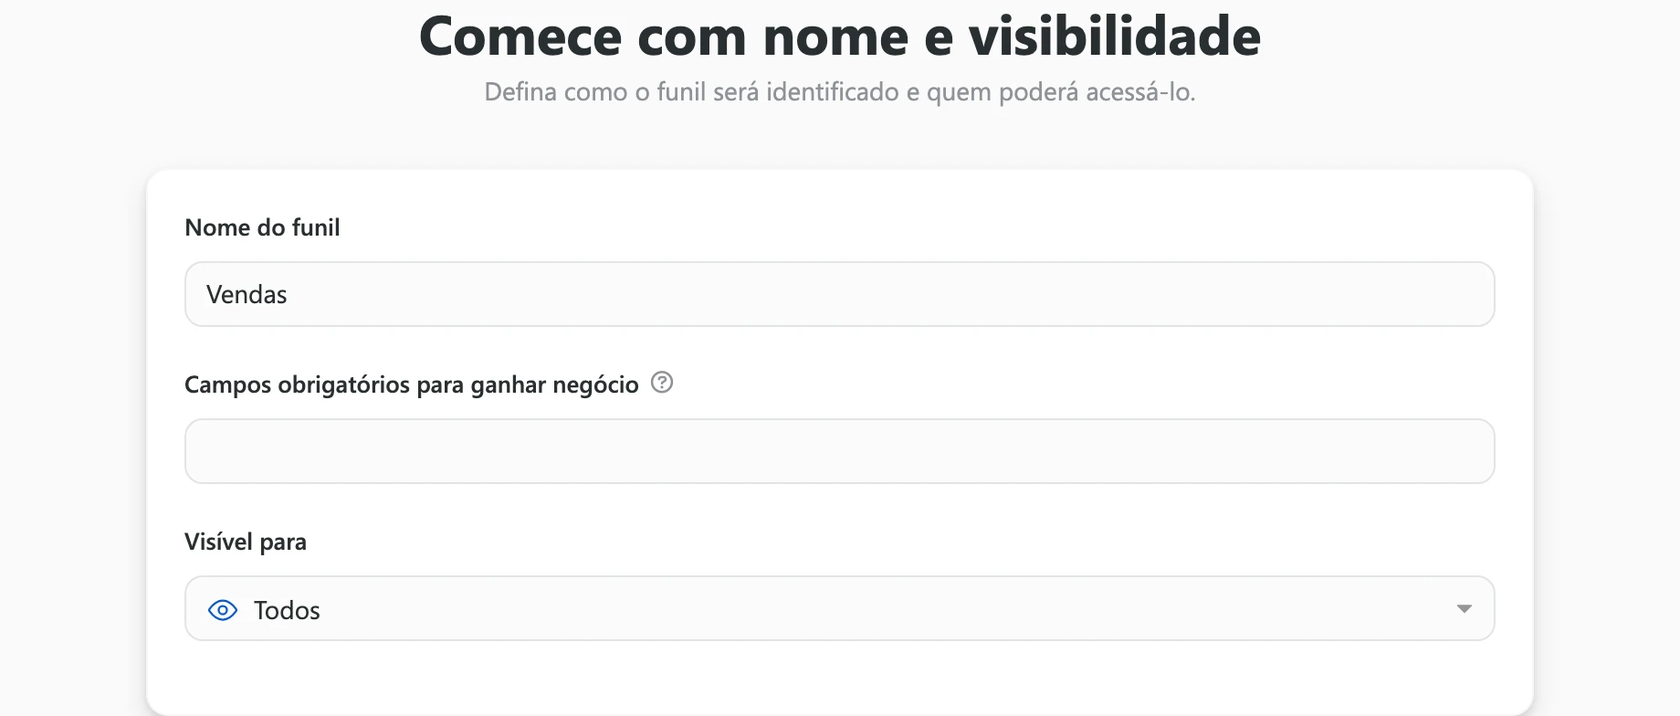
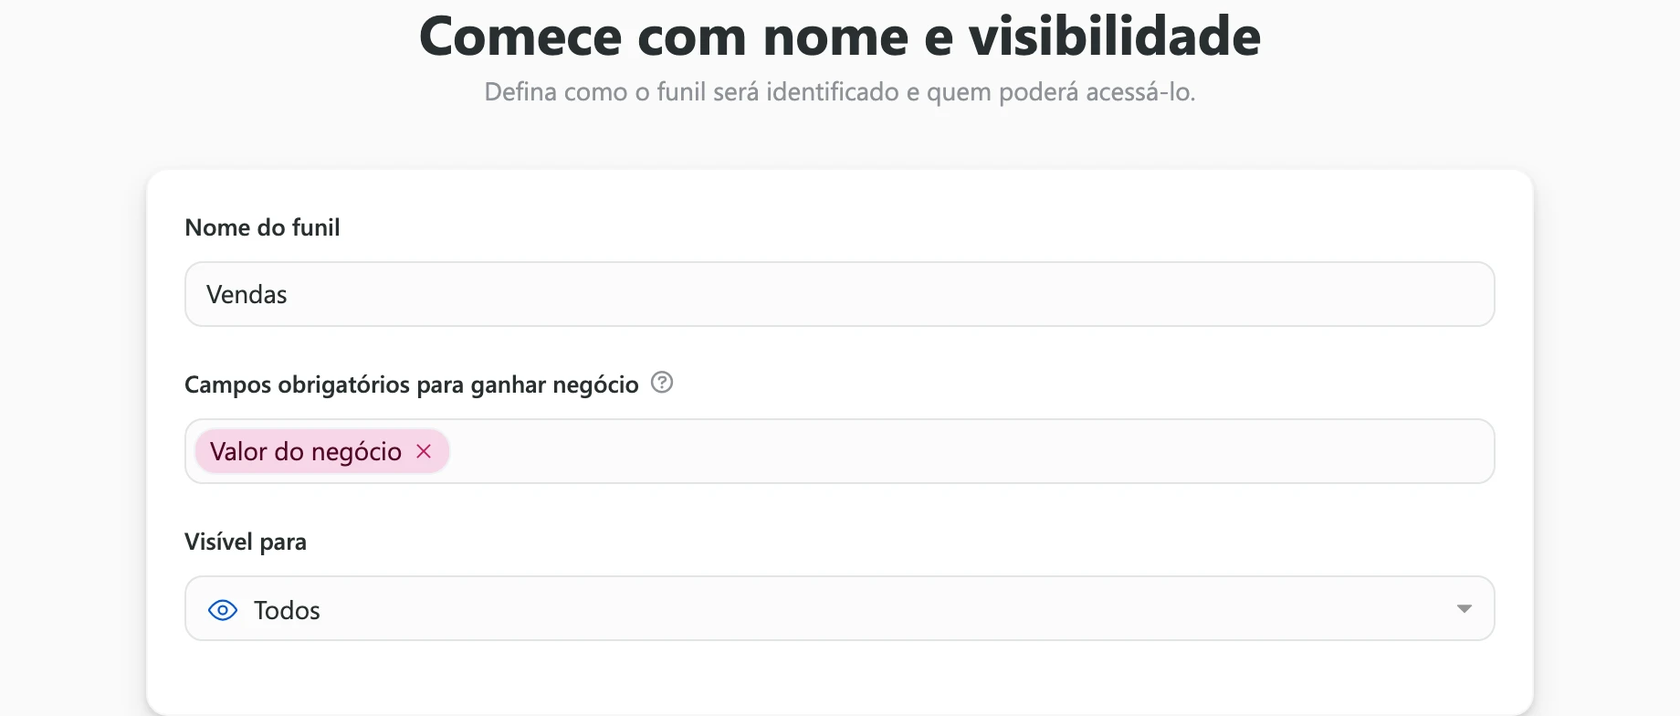
docs(ajuda): funis — correções da rodada 1 do conselho
- Permissões descritas sem recorte de caminho (exportar, reverter importação,
  voltar etapa, nota de ações em lote, painel da conversa)
- Precisão: excluir etapa/funil com Mover todos os negócios, importação
  (mensagem de mapeamento, Prazo × SLA, datas do Excel, histórico com 10),
  exclusão em lote, cadência ao voltar para a etapa, campos para ganhar ×
  campos da etapa, ordem do filtro Etapa, total do produto
- Página do funil enxuta (filtros, ordenação, menu e Analítico em uma linha
  cada; detalhes na irmã) e seções reordenadas
- Prints: nome e visibilidade na tela de criação, quadro mais largo e mais
  baixo, nova negociação mais baixa; manifesto e seed (--so validado, falha
  sem membro)
- Links do glossário e da referência de permissões; golden com caso de
  campo obrigatório para ganhar

Changed region(s): [[0.0929, 0.5816, 0.2788, 0.6735]]

diff --git a/scripts/screenshots/seed.ts b/scripts/screenshots/seed.ts
@@ -347,10 +347,12 @@ async function garantirCrm(api: Api, contatoIds: Record<string, string>) {
 
   // Responsáveis fictícios (membros convidados)
   const operadores = lista(await api.v0('GET', '/operators?limit=100'))
+  // Sem o membro, o negócio ficaria com o dono real da conta (nome e foto no print): falha em vez de seguir
   const opId = (nome: string) => {
     const membro = MEMBROS.find((m) => m.name === nome)
     const op = operadores.find((o) => o.email === membro?.email)
-    return op ? Number(op.operatorId || op.id) : undefined
+    if (!op) throw new Error(`membro "${nome}" não encontrado: rode antes a etapa "membros" (bun seed.ts --so membros,crm)`)
+    return Number(op.operatorId || op.id)
   }
 
   const vendas = lista(await api.v3('GET', '/pipelines')).find((p) => p.name === PIPELINE.name)
@@ -700,15 +702,8 @@ async function garantirClientes(api: Api, contatoIds: Record<string, string>) {
   log(`clientes: ${CAMPOS_CONTATO.length} campos de contato e ${ORGANIZACOES.length} organizações`)
 }
 
-const workspace = await garantirWorkspace()
-const api = client(workspace.token)
-await pularOnboarding(api)
-const canal = await garantirWidget(api)
-const tagIds = await garantirTags(api)
-await garantirConversas(api, canal, tagIds)
-const contatoIds = await garantirContatos(api)
-
 // As etapas abaixo são independentes: uma falha é registrada e o seed segue com as outras
+// (as funções só rodam no laço do fim, depois que `api`, `canal`, `tagIds` e `contatoIds` existem)
 const falhas: Record<string, string> = {}
 const etapas: [string, () => Promise<unknown>][] = [
   ['funil', () => garantirFunil(api, contatoIds, tagIds)],
@@ -722,9 +717,28 @@ const etapas: [string, () => Promise<unknown>][] = [
   ['clientes', () => garantirClientes(api, contatoIds)],
   ['crm', () => garantirCrm(api, contatoIds)],
 ]
-// `bun seed.ts --so crm,funil` roda só as etapas listadas (as do começo, idempotentes, rodam sempre)
+// `bun seed.ts --so funil,membros,crm` roda só as etapas listadas (as do começo, idempotentes, rodam sempre).
+// `crm` depende de `funil` (o funil "Vendas") e de `membros` (os responsáveis): rode as três juntas.
+const nomesEtapas = etapas.map(([nome]) => nome)
 const soArg = process.argv.indexOf('--so')
-const so = soArg > -1 ? process.argv[soArg + 1]?.split(',') : undefined
+let so: string[] | undefined
+if (soArg > -1) {
+  const valor = process.argv[soArg + 1]
+  if (!valor || valor.startsWith('--')) throw new Error(`--so precisa da lista de etapas, separadas por vírgula: ${nomesEtapas.join(', ')}`)
+  const pedidas = valor.split(',').map((nome) => nome.trim())
+  const desconhecidas = pedidas.filter((nome) => !nomesEtapas.includes(nome))
+  if (desconhecidas.length) throw new Error(`--so: etapa desconhecida (${desconhecidas.join(', ')}). Use: ${nomesEtapas.join(', ')}`)
+  so = pedidas
+}
+
+const workspace = await garantirWorkspace()
+const api = client(workspace.token)
+await pularOnboarding(api)
+const canal = await garantirWidget(api)
+const tagIds = await garantirTags(api)
+await garantirConversas(api, canal, tagIds)
+const contatoIds = await garantirContatos(api)
+
 for (const [nome, etapa] of etapas) {
   if (so && !so.includes(nome)) continue
   try {

diff --git a/llm/crm/importar-negociacoes.md b/llm/crm/importar-negociacoes.md
@@ -36,7 +36,7 @@ Detalhes de referência de [Importar negociações](/docs/crm/importar-negociaco
 
 ## Campos e cabeçalhos reconhecidos
 
-Embora **Nome da negociação** (ou **Título do ticket**) e **Nome do contato** exibam `*` na tela, é suficiente mapear **um dos dois** para avançar (`"Por favor, mapeie: Nome da negociação ou Nome do contato"`). Telefone e e-mail não são obrigatórios no mapeamento.
+Embora **Nome da negociação** (ou **Título do ticket**) e **Nome do contato** exibam `*` na tela, é suficiente mapear **um dos dois** para avançar (`"Por favor, mapeie: Nome do negócio ou Nome do contato"`; no **Funil Operacional**, `"Por favor, mapeie: Título do ticket ou Nome do contato"`). Telefone e e-mail não são obrigatórios no mapeamento.
 
 No mapeamento automático, a Kinbox compara o título da coluna (ignorando acentos, maiúsculas, espaços, `_` e `-`) com os termos abaixo (por igualdade ou parte do nome). Confira sempre todas as associações antes de avançar — especialmente **Nome do contato**, **Telefone do contato** e **E-mail do contato**. Campos personalizados de negociação casam por igualdade pelo nome ou pela chave do campo.
 
@@ -66,7 +66,7 @@ No mapeamento automático, a Kinbox compara o título da coluna (ignorando acent
 | **Etapa** | Nome exato da etapa do funil (insensível a maiúsculas, ignora espaços nas pontas) ou código da etapa. | Vazia ou não mapeada entra na primeira etapa do funil. Valor inexistente gera erro na linha: `Etapa não encontrada: "<valor>"`. |
 | **Status (open/won/lost)** | Escreva `aberto`, `ganho` ou `perdido` (também aceita os termos em inglês do rótulo; insensível a maiúsculas). No **Funil Operacional**, `ganho` marca como **Resolvido** e `perdido` como **Não resolvido**. | Vazia ou qualquer outro texto (como `resolvido` ou `vendido`) entra como **Aberto**, sem aviso. Negociações importadas como ganhas ou perdidas ficam sem motivo. |
 | **Valor** *(só comercial)* | No CSV, apenas números com ponto para centavos (ex.: `1500.50`), sem `R$` nem ponto de milhar. No `.xlsx`, célula numérica. | No **Funil Operacional**, o valor é sempre `0`. |
-| **Data de fechamento** / **Prazo** | Previsão de fechamento (ou SLA no operacional). Use `DD/MM/AAAA` com dois dígitos para dia e mês (datas com um dígito, como `1/2/2026`, podem ser lidas como mês/dia). | Data inválida faz a linha dar erro. |
+| **Data de fechamento** / **Prazo** | Previsão de fechamento (no **Funil Operacional**, **Prazo** também grava a previsão de fechamento, não o prazo de SLA; o SLA não é importado). No CSV, use `DD/MM/AAAA` com dois dígitos para dia e mês (datas com um dígito, como `1/2/2026`, podem ser lidas como mês/dia). No `.xlsx`, células no formato de data são convertidas automaticamente. | Data inválida faz a linha dar erro. |
 | **Data de ganho/perda** / **Data de conclusão/não resolução** | Gravada apenas quando o status da linha é ganho ou perdido (use `DD/MM/AAAA`). | Ignorada quando o status é aberto. Se vazia com status ganho ou perdido, grava a data da importação. |
 | **Tags (separadas por vírgula)** | Valores separados por vírgula, aplicados à negociação (não ao contato). **Mapeamento de Tags** associa automaticamente por nome (sem acento/maiúsculas); **Criar automaticamente tags não mapeadas** vem marcada por padrão e reaproveita tag existente de mesmo nome. | Sem ação escolhida e com a criação automática desmarcada, a tag é ignorada. |
 | **Responsável** e **Grupo** | Se **Responsável** ficar vazio, a negociação fica atribuída a quem fez a importação (para distribuir depois, use **Atribuir todos os negócios para um membro** em [Ações em lote no funil](/docs/crm/acoes-em-lote)). | Se **Grupo** ficar vazio e o funil tiver a regra **Ao criar negócio também mover para algum grupo do responsável.**, a negociação recebe um grupo do responsável. |
@@ -84,14 +84,13 @@ No mapeamento automático, a Kinbox compara o título da coluna (ignorando acent
 
 - **Início e acompanhamento:** inicia com `"Importação iniciada!"` (falha ao iniciar: `"Erro ao iniciar importação"`). A janela atualiza a cada 2 segundos e não fecha por clique fora; sair da página não interrompe a importação, que segue em andamento e aparece no **Histórico**. Se outras importações estiverem em andamento, a nova pode aguardar com status **Pendente**.
 - **Cancelar Importação:** interrompe sem confirmação entre lotes de 10 linhas (`"Importação cancelada"` / `"Erro ao cancelar importação"`). As negociações já criadas permanecem no funil. Importações já concluídas não podem ser canceladas.
-- **Status no Histórico de Importações:** **Concluído**, **Processando**, **Pendente**, **Falhou**, **Cancelado** e **Revertido**. Colunas: **ID** (8 últimos caracteres), **Arquivo**, **Status**, **Data**, **Total**, **Criados**, **Erros**.
+- **Histórico de Importações:** mostra as **10** importações mais recentes. Status: **Concluído**, **Processando**, **Pendente**, **Falhou**, **Cancelado** e **Revertido**. Colunas: **ID** (8 últimos caracteres), **Arquivo**, **Status**, **Data**, **Total**, **Criados**, **Erros**.
 - **Detalhes da Importação:** aba **Resumo** (datas, estatísticas, **Mapeamento** e aviso caso a opção de ignorar contato com negociação estivesse ativa) e aba **Erros** (guarda os **100 últimos** erros, enquanto o contador **Erros** conta todos; a coluna **Linha** conta o cabeçalho como linha 1 e desconsidera linhas vazias).
 - **Erros por linha:** quando uma linha falha, ela não é criada e as demais continuam. Mensagens: `Etapa não encontrada: "<valor>"` e `"Você já tem um máximo de {{max}} negociações abertas com esse contato."`.
 
 ## Reverter importação
 
 - **Condições:** disponível em **Histórico** → clique na importação → **Reverter importação** (ou **Ver detalhes** no cartão de resultado ao criar um funil) apenas para importações com status **Concluído** e **Criados com sucesso** maior que zero. Não aparece para importações **Cancelado**, **Falhou**, **Processando** ou **Revertido**. Não há limite de prazo.
-- **Quem pode:** exige a permissão **Gerenciar negociações** ou ser o proprietário.
 - **Confirmação e mensagens:** `"Deseja reverter esta importação e excluir os itens criados por ela ({{count}} negociações)? Esta ação não pode ser desfeita."` → **Reverter**. Sucesso: `"Importação revertida e itens criados excluídos"`; erro: `"Erro ao reverter importação"`. O status no histórico muda para **Revertido**.
-- **O que é excluído:** todas as negociações criadas por aquela importação, inclusive as que já foram editadas, movidas de etapa ou de funil, ganhas ou perdidas. Antes de confirmar, use **Ver … negociações** no mesmo painel para conferir a lista.
-- **O que não é desfeito:** contatos criados pela importação, dados preenchidos em contatos existentes e tags criadas permanecem no workspace. A reversão em si não pode ser desfeita.
+- **O que é excluído:** todas as negociações criadas por aquela importação, inclusive as que já foram editadas, movidas de etapa, ganhas ou perdidas. Antes de confirmar, use **Ver … negociações** no mesmo painel para conferir a lista.
+- **O que não é desfeito:** contatos criados e tags criadas pela importação não são apagados. A reversão em si não pode ser desfeita.

diff --git a/llm/faq/funil-reverter-importacao.md b/llm/faq/funil-reverter-importacao.md
@@ -1,6 +1,6 @@
 ---
 title: Como desfaço uma importação de negociações?
-description: Abra o Histórico na tela de importação de negociações (no computador e no layout atual) e clique em Reverter importação em uma importação concluída; exige Gerenciar negociações e não apaga contatos nem tags.
+description: Abra o Histórico na tela de importação de negociações (no computador e no layout atual) e clique em Reverter importação em uma importação concluída; não apaga contatos nem tags.
 keywords: [desfazer importação, reverter importação, apagar negociações importadas, importei errado, cancelar importação de funil, excluir importação, histórico de importações]
 publico: llm
 tipo: faq
@@ -23,13 +23,13 @@ Como desfaço uma importação de negociações?
 
 ## Resposta
 
-Vá em **Funis**, abra um funil (no computador e no layout atual), clique em **⋯** → **Importar** → **Histórico**, clique na importação desejada e selecione **Reverter importação** → **Reverter** — essa opção existe apenas para importações com status **Concluído** e pelo menos uma negociação criada, e exige a permissão **Gerenciar negociações** ou ser o proprietário do workspace (veja [Importar negociações](/docs/crm/importar-negociacoes)).
+Vá em **Funis**, abra um funil (no computador e no layout atual), clique em **⋯** → **Importar** → **Histórico**, clique na importação desejada e selecione **Reverter importação** → **Reverter** — essa opção existe apenas para importações com status **Concluído** e pelo menos uma negociação criada (veja [Importar negociações](/docs/crm/importar-negociacoes)).
 
 O que você precisa saber antes de reverter:
 
 - **Onde encontrar:** no **Histórico** da tela de importação; se você importou ao criar um funil novo, **Ver detalhes** no cartão de resultado abre a mesma tela. Não há limite de prazo.
-- **O que é excluído:** a Kinbox exclui definitivamente todas as negociações criadas por aquela importação — inclusive as que já foram editadas, movidas de etapa ou de funil, ganhas ou perdidas. Antes de confirmar (`"Deseja reverter esta importação e excluir os itens criados por ela ({{count}} negociações)? Esta ação não pode ser desfeita."`), use **Ver … negociações** no mesmo painel para conferir a lista. Depois da reversão, o status muda para **Revertido** e a ação não pode ser desfeita.
-- **O que não é desfeito:** contatos criados pela importação, dados preenchidos em contatos existentes e tags criadas permanecem no workspace e devem ser removidos manualmente se necessário.
+- **O que é excluído:** a Kinbox exclui definitivamente todas as negociações criadas por aquela importação — inclusive as que já foram editadas, movidas de etapa, ganhas ou perdidas. Antes de confirmar (`"Deseja reverter esta importação e excluir os itens criados por ela ({{count}} negociações)? Esta ação não pode ser desfeita."`), use **Ver … negociações** no mesmo painel para conferir a lista. Depois da reversão, o status muda para **Revertido** e a ação não pode ser desfeita.
+- **O que não é desfeito:** contatos criados e tags criadas pela importação não são apagados; remova-os manualmente se necessário.
 - **Importação em andamento, cancelada ou que falhou:** durante o processamento, você pode clicar em **Cancelar Importação** (interrompe no próximo lote, mas mantém as negociações já criadas). Importações com status **Cancelado** ou **Falhou** não exibem **Reverter importação** — para remover os itens já criados, exclua as negociações individualmente ou use **Excluir negociações** em [Ações em lote no funil](/docs/crm/acoes-em-lote), filtrando o funil com cuidado antes, pois a ação em lote alcança todas as negociações filtradas e a exclusão é definitiva.
 
 ## Variações

diff --git a/llm/faq/funil-negociacao-nao-muda-de-etapa.md b/llm/faq/funil-negociacao-nao-muda-de-etapa.md
@@ -1,6 +1,6 @@
 ---
 title: Por que não consigo mudar a negociação de etapa?
-description: Ao mover uma negociação pelo quadro ou pela tela da negociação, a Kinbox bloqueia a mudança se o papel tiver Não pode voltar para etapa anterior, se houver tarefa obrigatória pendente ou se faltar campo obrigatório da etapa atual.
+description: A Kinbox bloqueia a mudança de etapa se o papel tiver Não pode voltar para etapa anterior e a etapa for anterior, se houver tarefa obrigatória pendente ou se faltar campo obrigatório da etapa atual.
 keywords: [não consigo mover negociação, negociação travada na etapa, voltar etapa bloqueado, tarefas obrigatórias pendentes, preencha todos os campos obrigatórios, erro ao arrastar cartão no funil, mudar estágio bloqueado]
 publico: llm
 tipo: faq
@@ -35,11 +35,11 @@ Por que não consigo mudar a negociação de etapa?
 
 ## Resposta
 
-Ao mover uma negociação pelo quadro ou pela tela da negociação (barra de etapas ou **Editar etapa e funil**), a Kinbox verifica três bloqueios nesta ordem: a restrição de voltar etapa do seu papel, tarefas obrigatórias pendentes na negociação e campos obrigatórios da etapa **atual** (veja [Trabalhar com negociações no funil](/docs/crm/gerenciando-funil-de-vendas) e [Motivos de perda, campos obrigatórios e regras do funil](/docs/crm/motivos-de-perda-e-regras)).
+Ao mudar uma negociação de etapa, a Kinbox verifica três bloqueios nesta ordem: a restrição de voltar etapa do seu papel, tarefas obrigatórias pendentes na negociação e campos obrigatórios da etapa **atual** (veja [Trabalhar com negociações no funil](/docs/crm/gerenciando-funil-de-vendas) e [Motivos de perda, campos obrigatórios e regras do funil](/docs/crm/motivos-de-perda-e-regras)).
 
 Confira qual mensagem aparece e como resolver:
 
-1. **Restrição de voltar etapa (`"Você não tem permissão para retornar a uma etapa anterior. Chame seu gestor para essa ação."`):** seu papel tem a restrição **Não pode voltar para etapa anterior**. Peça ao gestor ou ao proprietário do workspace para mover a negociação ou alterar seu papel (o proprietário nunca tem restrições).
+1. **Restrição de voltar etapa (`"Você não tem permissão para retornar a uma etapa anterior. Chame seu gestor para essa ação."`):** seu papel tem a restrição **Não pode voltar para etapa anterior**: quem tem essa restrição não move a negociação para uma etapa anterior. Peça ao gestor ou ao proprietário do workspace para mover a negociação ou alterar seu papel (o proprietário nunca tem restrições).
 2. **Tarefa obrigatória pendente (`"Você tem tarefas obrigatórias pendentes, não é possível mudar estágio."`):** existe pelo menos uma tarefa obrigatória aberta (não concluída e não cancelada) na negociação — a Kinbox considera todas as tarefas obrigatórias pendentes da negociação, não apenas as da etapa atual. Conclua ou cancele a tarefa no painel **Tarefas** da negociação para liberar a mudança.
 3. **Campos obrigatórios da etapa atual (`"Preencha todos os campos obrigatórios antes de mover o negócio para a próxima etapa."`):** a Kinbox confere os campos configurados para **sair da etapa em que a negociação está** (não os da etapa de destino), em qualquer direção. Preencha os campos destacados na negociação (por exemplo, **Valor do negócio** precisa ser maior que zero) e mova novamente.
 

diff --git a/llm/faq/funil-negocio-da-conversa.md b/llm/faq/funil-negocio-da-conversa.md
@@ -32,11 +32,11 @@ Como crio uma negociação a partir de uma conversa?
 
 ## Resposta
 
-Abra a conversa na [Caixa de entrada: visão geral](/docs/conversas/caixa-de-entrada-do-kinbox), abra a seção **Negociações** no painel **Detalhes** à direita (se o painel estiver fechado, clique em **Mostrar detalhes do contato**), passe o mouse sobre o título e clique em **+** (ou em **Negócio**, se o contato ainda não tiver negociações) — para ver essa seção você precisa da permissão **Pode gerenciar as negociações da conversa.** e, para criar ou editar, também de **Gerenciar negociações** (o proprietário do workspace sempre tem acesso).
+Abra a conversa na [Caixa de entrada](/docs/conversas/caixa-de-entrada-do-kinbox), abra a seção **Negociações** no painel **Detalhes** à direita (se o painel estiver fechado, clique em **Mostrar detalhes do contato**), passe o mouse sobre o título e clique em **+** (ou em **Negócio**, se o contato ainda não tiver negociações) — para ver essa seção você precisa da permissão **Pode gerenciar as negociações da conversa.** e, para criar ou editar, também de **Gerenciar negociações** (o proprietário do workspace sempre tem acesso).
 
 Como funciona na prática:
 
-- **O que aparece na seção:** a seção **Negociações** lista todas as negociações **do contato** da conversa (abertas, ganhas e perdidas), não só as associadas a ela, e clicar em uma delas abre os detalhes em uma gaveta lateral por cima da conversa.
+- **O que aparece na seção:** a seção **Negociações** lista as negociações do contato, não só as associadas a esta conversa, e clicar em uma delas abre os detalhes em uma gaveta lateral por cima da conversa.
 - **O que já vem preenchido:** a janela **Nova negociação** (ou **Novo ticket**) já abre com o **Contato** fixo, o **Nome da negociação** preenchido com o nome do contato (editável), a **Organização** principal do contato sugerida e esta conversa associada automaticamente. Escolha o **Funil** e a **Etapa** e clique em **Criar** (ou **Criar e abrir**).
 - **Responsável:** se você deixar **Responsável** vazio no formulário, a negociação fica atribuída a quem a criou (não ao responsável da conversa).
 - **Bloqueios na criação:** se aparecer `"Você não pode criar um negócio..."` ou `"Você já tem um máximo de ... negociações abertas com esse contato."`, seu papel tem uma restrição de criação para contatos com negociação aberta ou o funil atingiu o limite de negociações abertas por contato.

diff --git a/llm/faq/funil-excluir-funil.md b/llm/faq/funil-excluir-funil.md
@@ -31,10 +31,12 @@ A Kinbox bloqueia a exclusão de qualquer funil que ainda tenha negociações as
 Como resolver:
 
 1. **Verifique sua permissão:** você precisa da permissão **Funis** (na seção **Gerenciamento do Ambiente**) para acessar **Configurações** → **CRM** → **Funis** e excluir um funil.
-2. **Esvazie o funil antes de excluir:** abra o funil no menu **Funis** com o período em **Fluxo geral** e sem filtros que escondam negociações. Mova todas as negociações para outro funil usando **Mover todos os negócios** em [Ações em lote no funil](/docs/crm/acoes-em-lote) (ou **Editar etapa e funil** em cada negociação) ou exclua as negociações antes.
+2. **Esvazie o funil antes de excluir:** abra o funil no menu **Funis** com o período em **Fluxo geral** e sem filtros que escondam negociações. Mova todas as negociações para outro funil usando **Mover todos os negócios** em [Ações em lote no funil](/docs/crm/acoes-em-lote) (ou **Editar etapa e funil** em cada negociação) ou exclua as negociações antes. Sem filtro de **Etapa**, **Mover todos os negócios** alcança também as negociações de etapas já excluídas.
 3. **Exclua o funil:** volte em **Configurações** → **CRM** → **Funis**, clique em **⋯** → **Excluir** e confirme. A exclusão do funil é definitiva e não tem volta.
 
-Se você quiser excluir apenas uma **etapa** (e não o funil inteiro), remover a etapa não apaga as negociações que estavam nela, mas faz com que elas deixem de aparecer nas colunas do quadro — mova as negociações da etapa antes de excluí-la.
+Negociações de uma etapa já excluída não aparecem nas colunas do quadro, mas continuam no funil e impedem a exclusão dele. É por isso que o funil pode parecer vazio e ainda assim não ser excluído: use **Mover todos os negócios** sem filtro de **Etapa** para levá-las a outro funil.
+
+Se você quiser excluir apenas uma **etapa** (e não o funil inteiro), remover a etapa não apaga as negociações que estavam nela — antes de excluí-la, filtre o funil por **Etapa** e mova as negociações dessa etapa com **Mover todos os negócios**.
 
 ## Variações
 

diff --git a/llm/crm/cadencias.md b/llm/crm/cadencias.md
@@ -71,7 +71,7 @@ Detalhes de referência de [Cadências: tarefas automáticas por etapa](/docs/cr
 
 ## Tarefa obrigatória e regras do funil
 
-- **Obrigatória para avançar:** ao mudar a etapa pelo quadro ou pela negociação, qualquer tarefa obrigatória pendente (não concluída e não cancelada) da negociação bloqueia a mudança com `"Você tem tarefas obrigatórias pendentes, não é possível mudar estágio."`. Modelos **Dias depois** só travam a partir do dia em que a tarefa nasce. Concluir ou cancelar a tarefa libera a mudança de etapa.
+- **Obrigatória para avançar:** ao mudar a etapa, qualquer tarefa obrigatória pendente (não concluída e não cancelada) da negociação bloqueia a mudança com `"Você tem tarefas obrigatórias pendentes, não é possível mudar estágio."`. Modelos **Dias depois** só travam a partir do dia em que a tarefa nasce. Concluir ou cancelar a tarefa libera a mudança de etapa.
 - **Não executar tarefas anteriores ao horário de mudança de etapa no mesmo dia.:** impede a criação de tarefas com horário fixo cujo horário de hoje já passou no momento da entrada (`"Se um negócio entrar agora, as {{time}} de hoje já passaram: pela regra do funil, a tarefa não é criada."`).
 - **Criar tarefas de cadência mesmo após negócio ganho ou perdido.** *(operacional: **Criar tarefas de cadência mesmo após ticket resolvido ou não resolvido.**)*: sem essa regra, tarefas agendadas e mensais não são criadas para negociações já encerradas; com ela ligada, continuam sendo criadas.
 

diff --git a/scripts/screenshots/README.md b/scripts/screenshots/README.md
@@ -27,7 +27,7 @@ Num worktree novo, rode o `bun install` de novo: o `node_modules` não vem junto
 bun seed.ts
 ```
 
-O seed encontra o workspace pelo nome e só cria o que falta, então pode rodar quantas vezes quiser. Para rodar só algumas etapas (as do começo — workspace, widget, tags, conversas e contatos — rodam sempre), use `bun seed.ts --so crm,funil` com os nomes da lista `etapas` do fim do arquivo. Ele cria:
+O seed encontra o workspace pelo nome e só cria o que falta, então pode rodar quantas vezes quiser. Para rodar só algumas etapas (as do começo — workspace, widget, tags, conversas e contatos — rodam sempre), use `bun seed.ts --so funil,membros,crm` com os nomes da lista `etapas` do fim do arquivo (nome desconhecido ou `--so` sem lista para o seed com erro). A etapa `crm` depende de `funil` e `membros`: sem os membros, ela falha em vez de deixar os negócios com o dono real da conta. Ele cria:
 
 - o workspace `Loja Exemplo`, com o onboarding guiado marcado como pulado;
 - um canal de widget (`Chat do site`);
